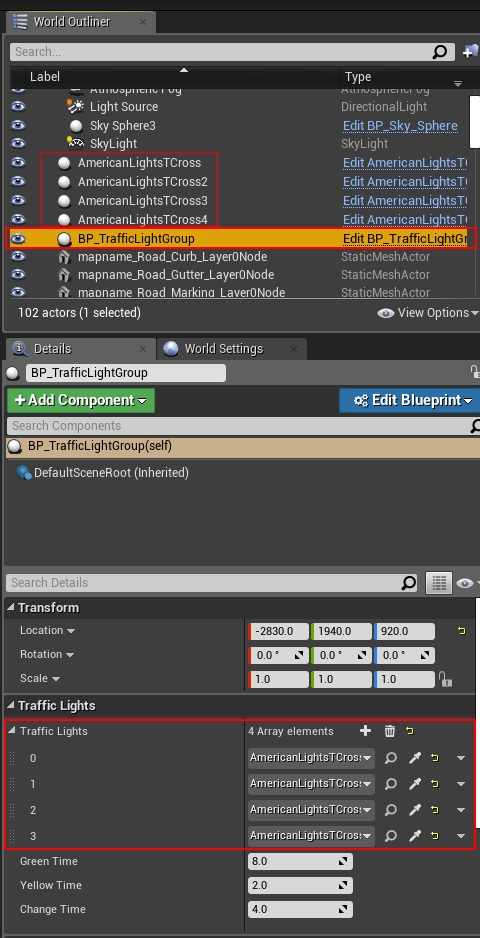
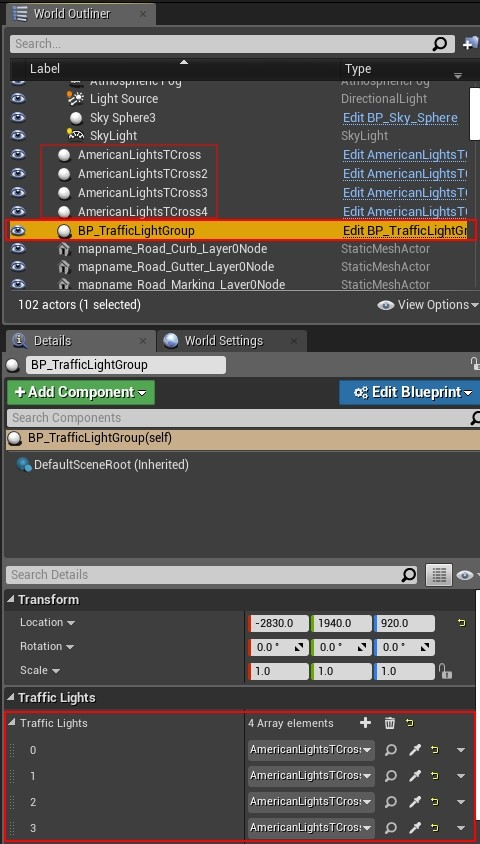
Added how to add traffic light and signs documentation. Updated nav with approriate page name. Cropped photo to show an updated view of UE editor

diff --git a/Docs/tuto_M_custom_add_tl.md b/Docs/tuto_M_custom_add_tl.md
@@ -1,0 +1,62 @@
+# Customizing maps: Traffic Lights and Signs
+
+This guide explains how to add traffic lights and signs to your custom map, configure the area of influence of each one, and how to configure traffic lights as a group at junctions. This option is only available to users who have access to the Unreal Engine editor.
+
+- [__Traffic Lights__](#traffic-lights)
+- [__Traffic signs__](#traffic-signs)
+- [__Next steps__](#next-steps)
+
+---
+
+## Traffic lights
+
+To add traffic lights to your new map:
+
+__1.__ From the _Content Browser_, navigate to `Content/Carla/Static/TrafficLight/StreetLights_01`. You will find several different traffic light blueprints to choose from.
+
+__2.__ Drag the traffic lights into the scene and position them in the desired location. Press the space bar on your keyboard to toggle between positioning, rotation, and scaling tools.
+
+__3.__ Adjust the [`trigger volume`][triggerlink] for each traffic light by selecting the _BoxTrigger_ component in the _Details_ panel and adjusting the values in the _Transform_ section. This will determine the traffic light's area of influence.
+
+>>![ue_trafficlight](img/ue_trafficlight.jpg)
+
+__4.__ For junctions, drag the `BP_TrafficLightGroup` actor into the level. Assign all the traffic lights in the junction to the traffic light group by adding them to the _Traffic Lights_ array in the _Details_ panel.
+
+>>![ue_tl_group](img/ue_tl_group.jpg)
+
+__5.__ Traffic light timing is only configurable through the Python API. See the documentation [here](core_actors.md#traffic-signs-and-traffic-lights) for more information.
+
+>>![ue_tlsigns_example](img/ue_tlsigns_example.jpg)
+
+> _Example: Traffic Signs, Traffic lights and Turn based stop._
+
+[triggerlink]: python_api.md#carla.TrafficSign.trigger_volume
+
+---
+
+## Traffic signs
+
+To add traffic lights to your new map:
+
+__1.__ From the _Content Browser_, navigate to `Content/Carla/Static/TrafficSign`. You will find several different traffic light blueprints to choose from.
+
+__2.__ Drag the traffic lights into the scene and position them in the desired location. Press the space bar on your keyboard to toggle between positioning, rotation, and scaling tools.
+
+__3.__ Adjust the [`trigger volume`][triggerlink] for each traffic sign by selecting the _BoxTrigger_ component in the _Details_ panel and adjusting the values in the _Transform_ section. This will determine the traffic light's area of influence. Not all traffic signs have a trigger volume. Those that do, include the yield, stop and speed limit signs.
+
+---
+
+## Next steps
+
+Continue customizing your map using the tools and guides below:
+
+- [Add buildings with the procedural building tool.](tuto_M_custom_buildings.md)
+- [Customize the road with the road painter tool.](tuto_M_custom_road_painter.md)
+- [Customize the weather](tuto_M_custom_weather_landscape.md#weather-customization)
+- [Customize the landscape with serial meshes.](tuto_M_custom_weather_landscape.md#add-serial-meshes)
+
+Once you have finished with the customization, you can [generate the pedestrian navigation information](tuto_M_generate_pedestrian_navigation.md).
+
+---
+
+If you have any questions about the process then you can ask in the [forum](https://github.com/carla-simulator/carla/discussions).
